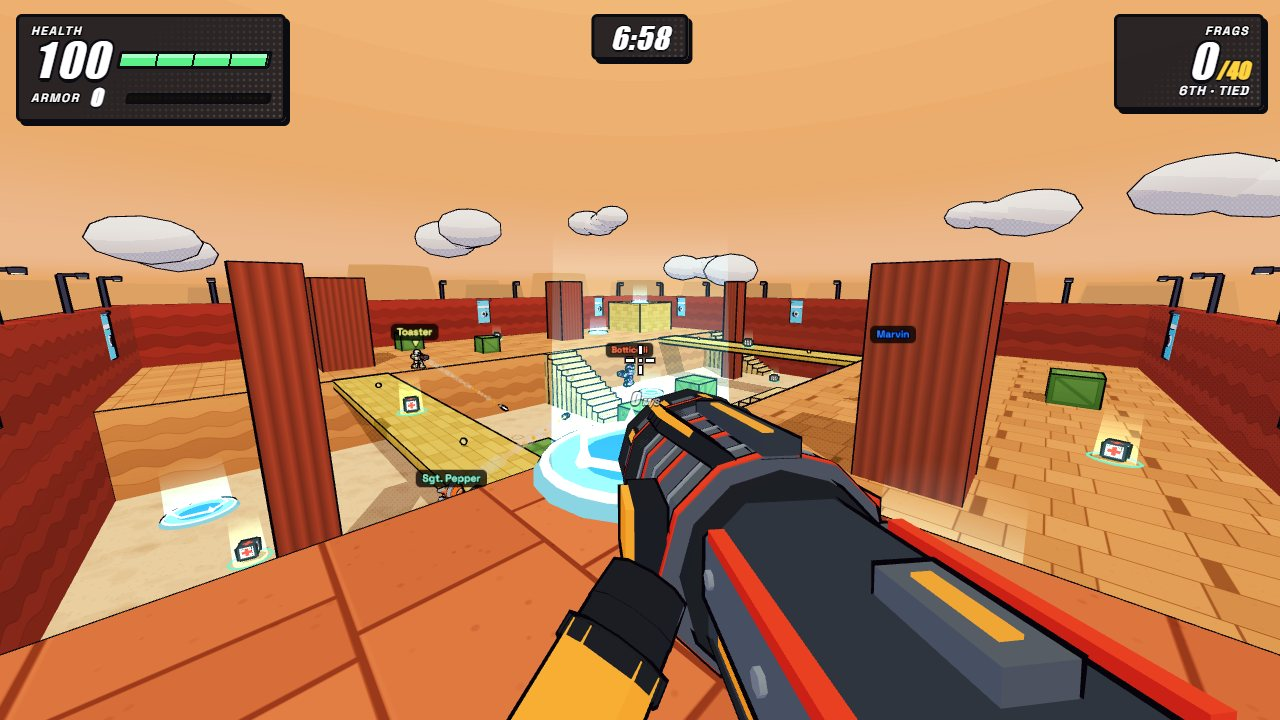
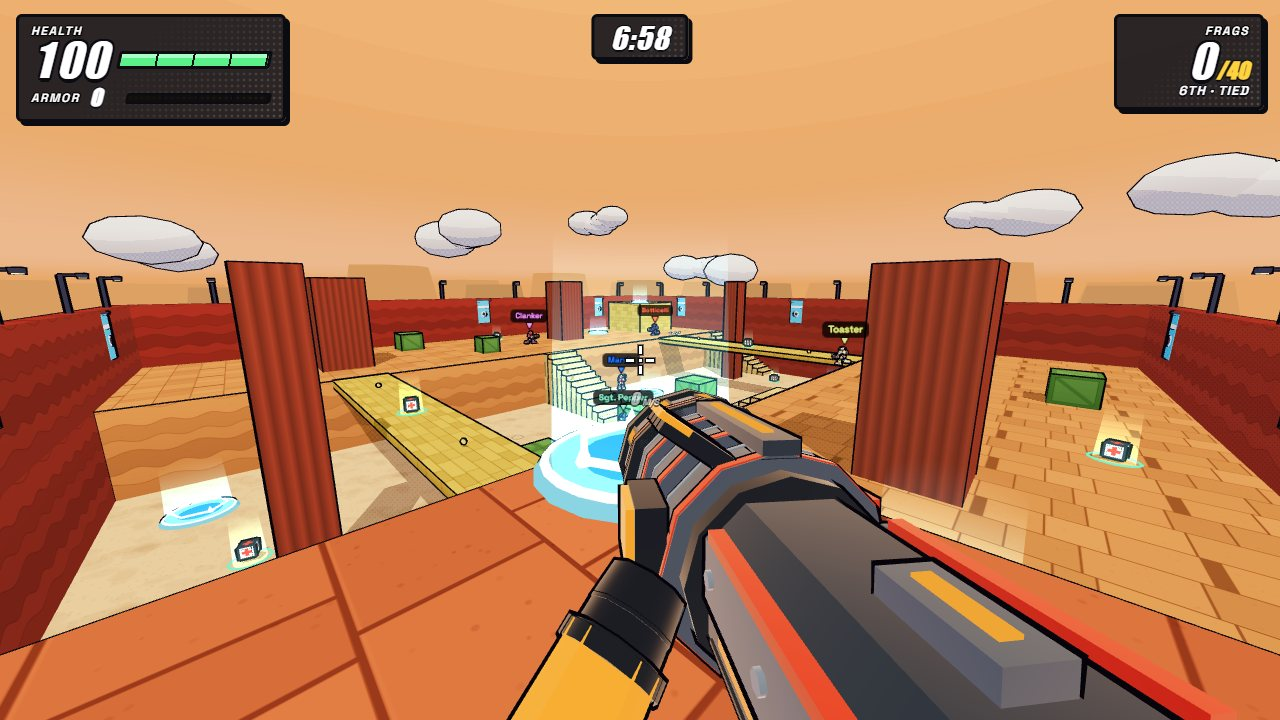
play: Rockets first-person launcher gets a warm metallic rim light

diff --git a/play/frontend/src/games/rockets/client.ts b/play/frontend/src/games/rockets/client.ts
@@ -1002,6 +1002,23 @@ export class RocketsClient implements GameClient {
         mat.onBeforeCompile = src.onBeforeCompile;
         mat.onBeforeRender = src.onBeforeRender;
         mat.customProgramCacheKey = src.customProgramCacheKey;
+        if ((src as THREE.MeshToonMaterial).isMeshToonMaterial) {
+          // Worn metal: a warm rim light round the gun's silhouette edges, picking up the dusk sun.
+          const base = src.onBeforeCompile.bind(src);
+          const key = src.customProgramCacheKey.bind(src);
+          mat.onBeforeCompile = (shader, renderer) => {
+            base(shader, renderer);
+            shader.fragmentShader = shader.fragmentShader.replace(
+              '#include <opaque_fragment>',
+              `{
+                float rim = pow(1.0 - max(dot(normalize(normal), normalize(vViewPosition)), 0.0), 3.0);
+                outgoingLight += vec3(1.0, 0.58, 0.32) * rim * 0.5;
+              }
+              #include <opaque_fragment>`,
+            );
+          };
+          mat.customProgramCacheKey = () => `${key()}|vmRim`;
+        }
         mat.transparent = true;
         own.set(src, mat);
         // Outline copies follow the quality setting's ink switch on the shared originals.
